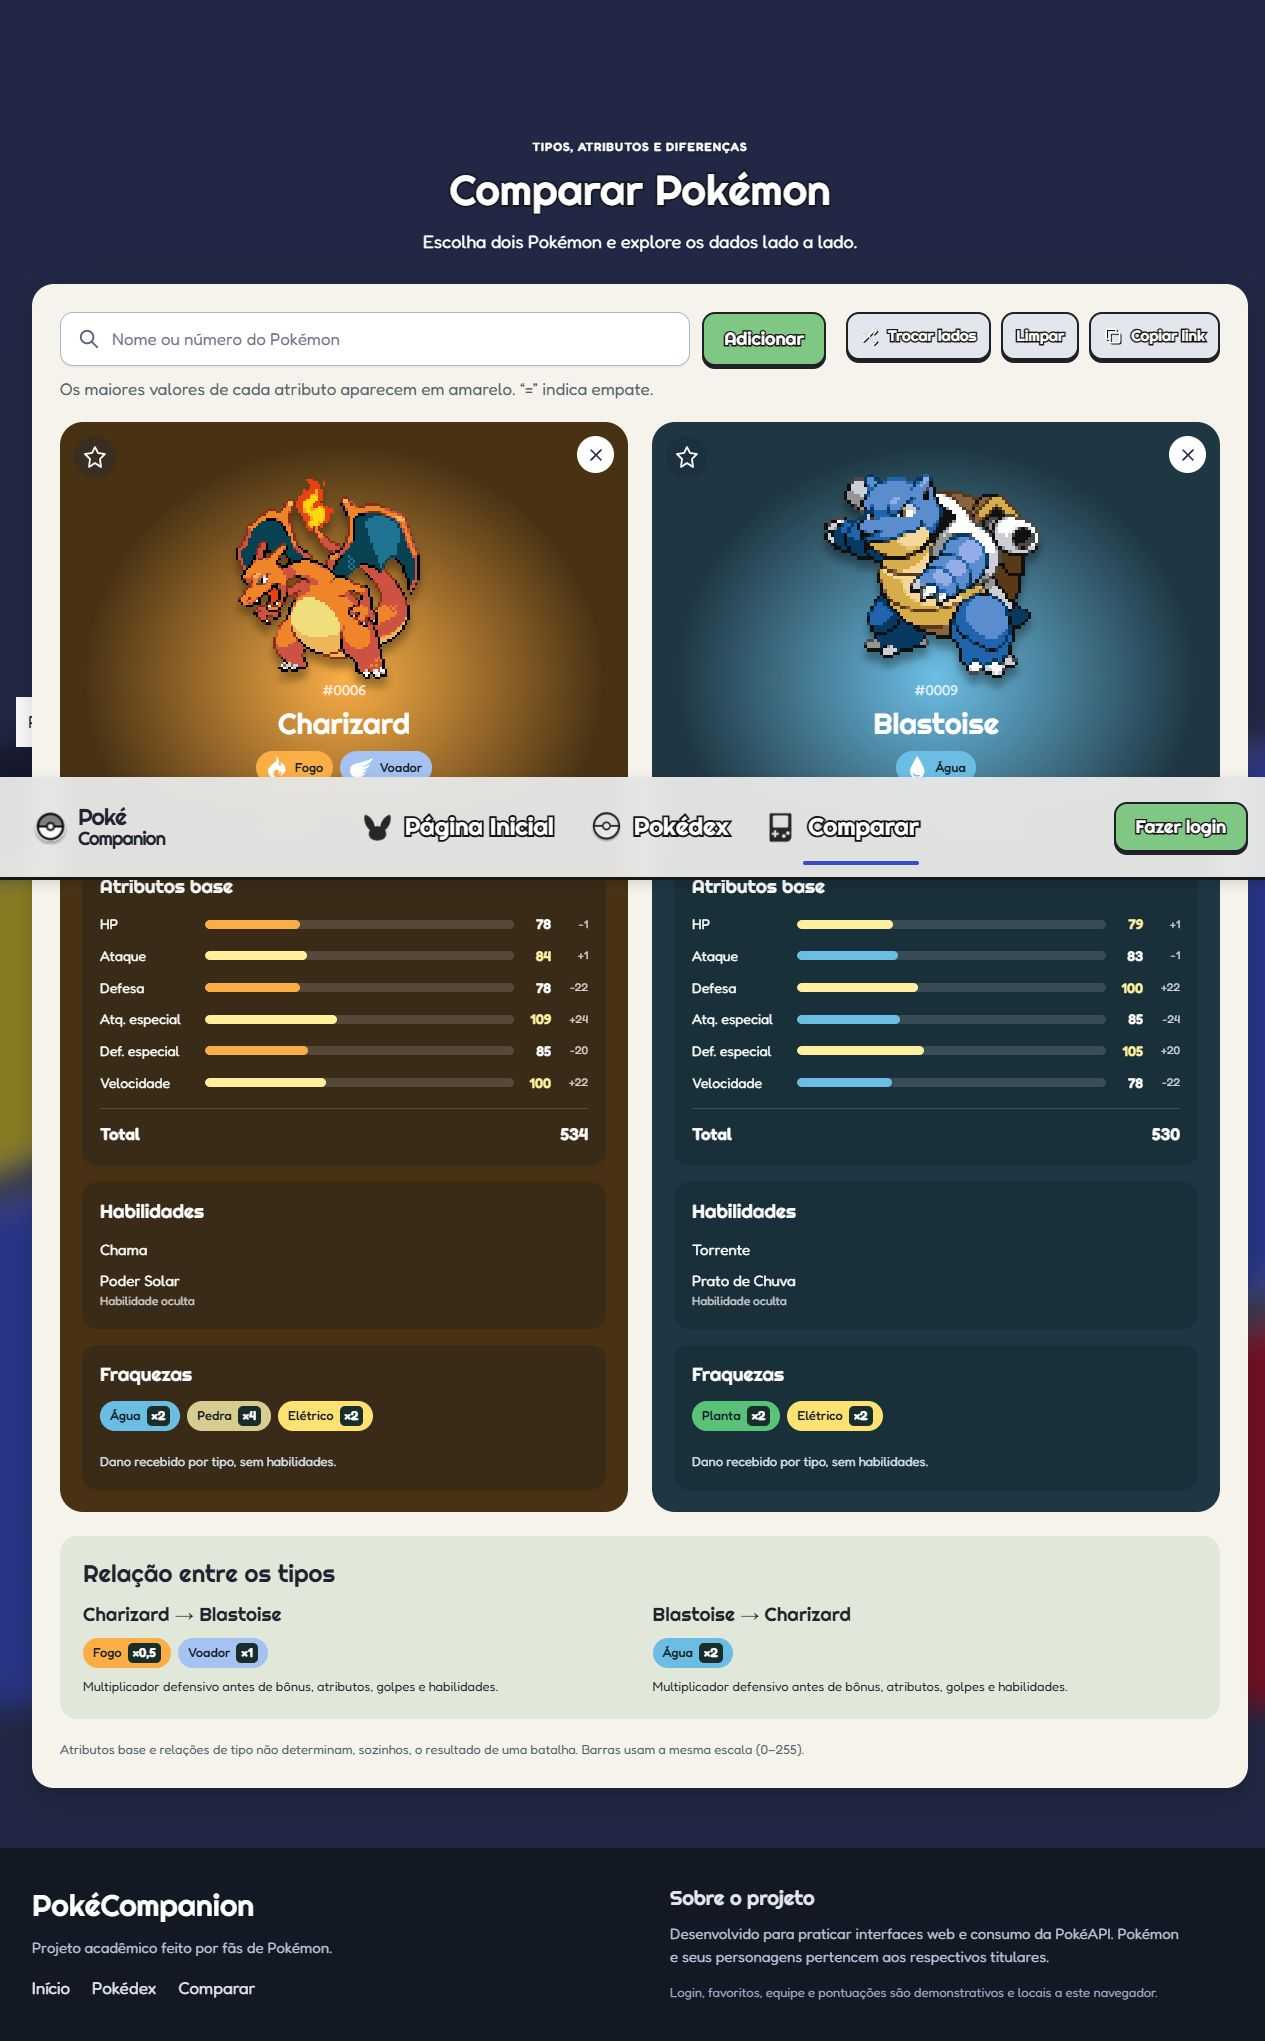
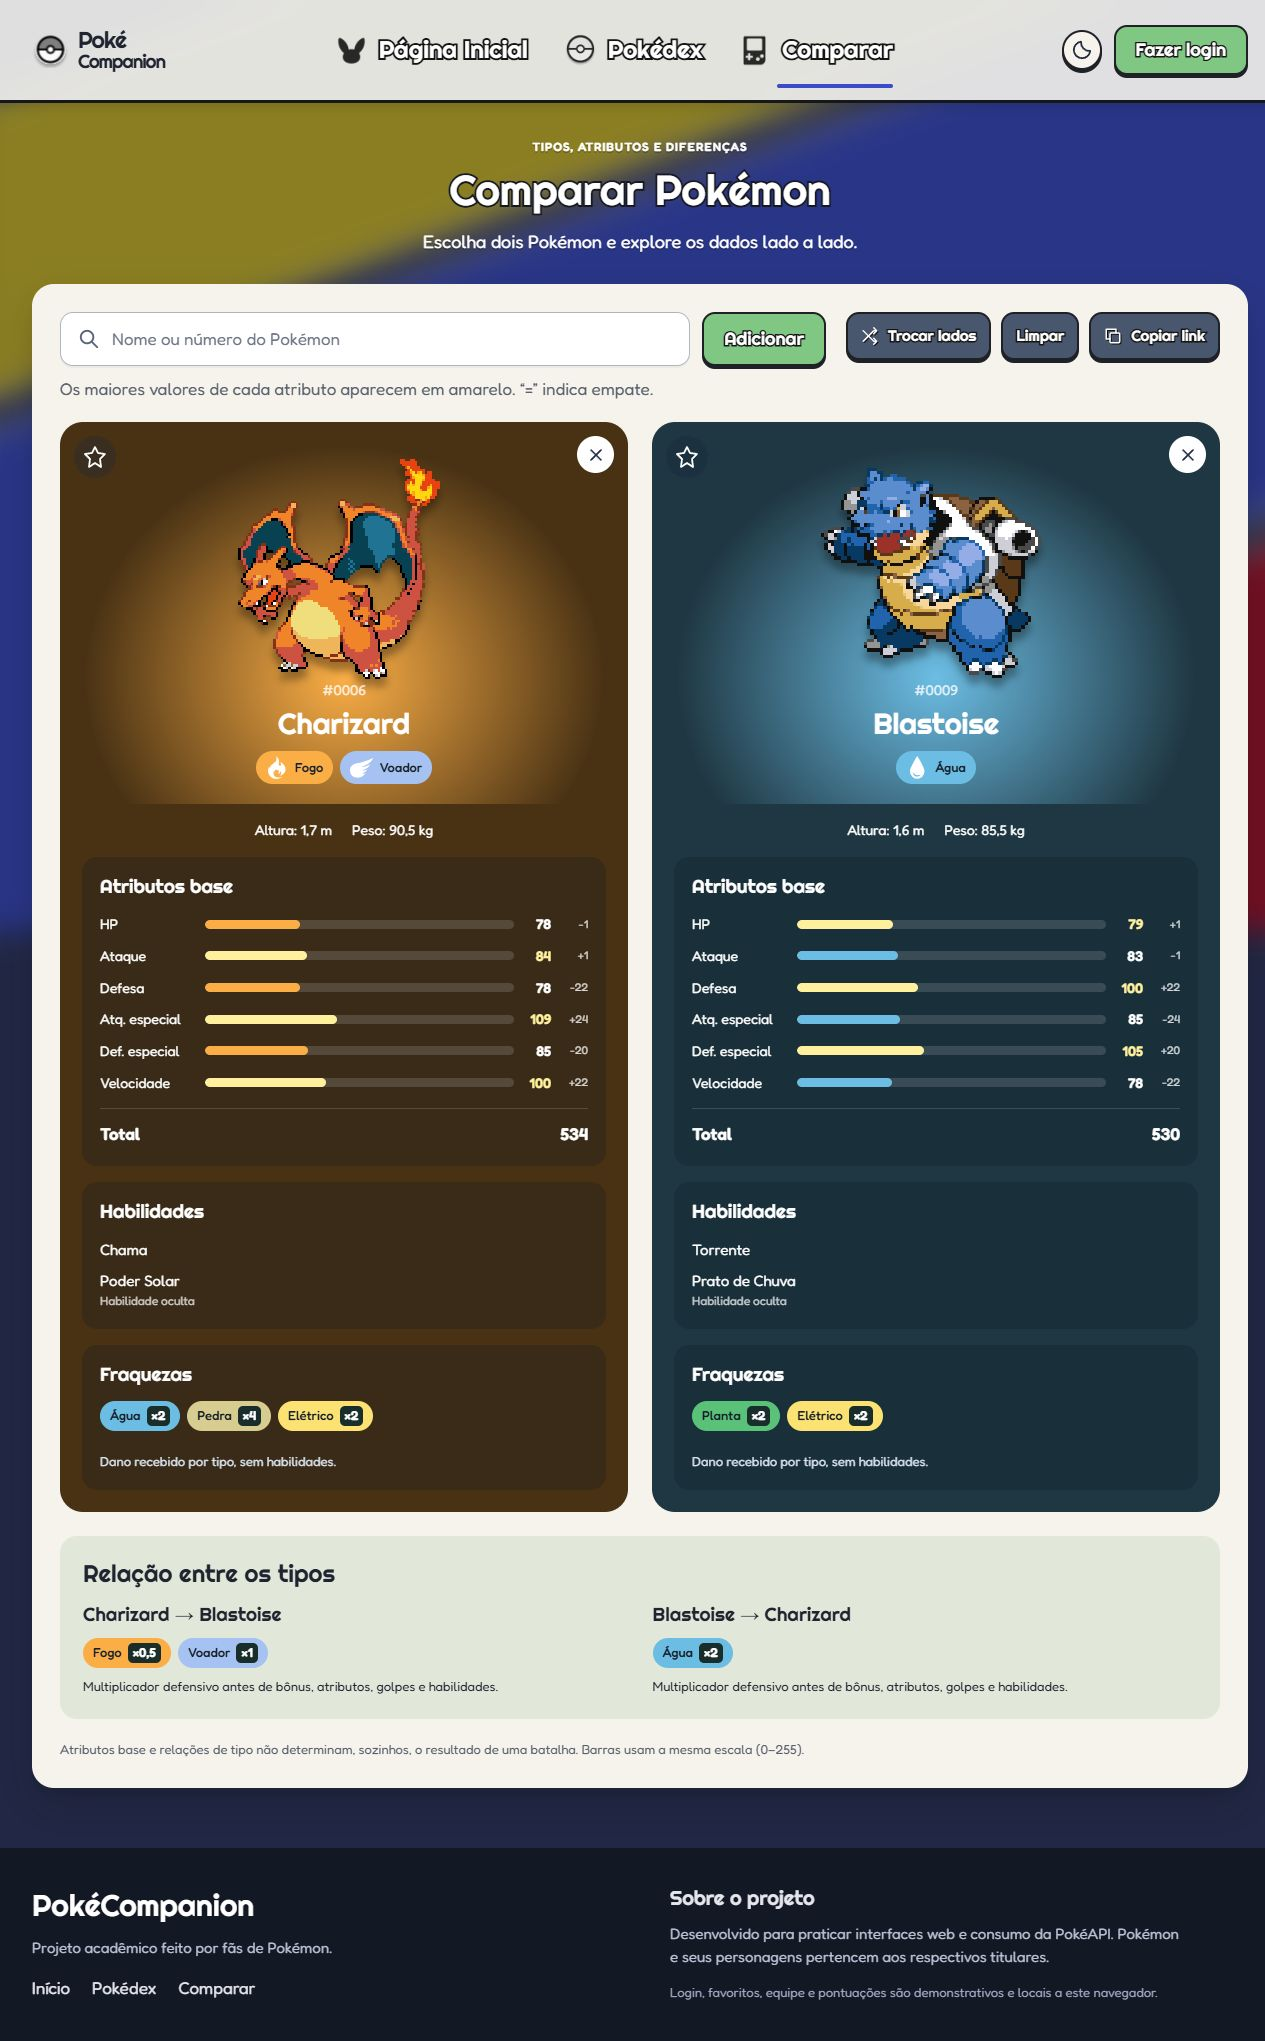
feat: atualizacao readme

Changed region(s): [[0.0, 0.0, 1.0, 0.8643], [0.6474, 0.2161, 0.8324, 0.3395], [0.185, 0.2161, 0.37, 0.3395]]

diff --git a/README.md b/README.md
@@ -4,9 +4,7 @@
 
 # PokéCompanion
 
-**Explore. Favorite. Compare.**
-
-Uma Pokédex para fãs de Pokémon, com a identidade visual de um projeto feito por fãs.
+Pokédex interativa com comparação, favoritos, equipe e quiz.
 
 ![HTML5](https://img.shields.io/badge/HTML5-E34F26?style=flat-square&logo=html5&logoColor=white)
 ![CSS3](https://img.shields.io/badge/CSS3-3B4CCA?style=flat-square&logo=css&logoColor=white)
@@ -24,16 +22,15 @@ Projeto acadêmico em **HTML, CSS e JavaScript**, com dados da PokéAPI. As core
 ## Funcionalidades
 
 - **Tema claro e escuro:** seletor de sol/lua no cabeçalho, com preferência salva neste navegador e aplicada em todas as páginas.
-
 - **Página inicial:** esteira circular em perspectiva com sete Pokémon, controles de navegação e pausa; iniciais de nove regiões, atalhos por tipo e vistos recentemente.
 - **Pokédex:** sugestões por nome ou número a partir do catálogo completo, filtros por tipo, favoritos e lotes de 20 sem cartões duplicados.
 - **Ordenação:** por nome ou número, aplicada ao catálogo filtrado antes da paginação.
 - **Favoritos por conta:** estrela na Pokédex, no comparador e na ficha; exige login demonstrativo. Favoritos antigos sem autoria podem ser importados explicitamente.
 - **Comparador:** dois Pokémon lado a lado, diferenças entre atributos, habilidades, relações de tipos, troca de lados e compartilhamento por URL.
-- **Ficha:** cenário visual por tipo, sombra, opção normal/shiny quando disponível e abas de informações, atributos, evoluções e golpes.
+- **Ficha:** cenário visual por tipo, sprites com pixels nítidos e sombra, opção normal/shiny quando disponível e abas de informações, atributos, evoluções e golpes.
 - **Equipe:** até seis Pokémon, resumo dos tipos e fraquezas compartilhadas; dados salvos localmente.
 - **Quiz:** identificação pela silhueta, quatro alternativas, pontuação e histórico consolidado de acertos no navegador.
-- **Interface:** títulos e botões temáticos, ícones vetoriais, pesquisa por teclado, filtros recolhíveis e fundo desfocado nas páginas internas.
+- **Interface:** títulos e botões temáticos, ícones vetoriais com contraste, pesquisa por teclado, filtros recolhíveis, rolagem interna discreta nas categorias e fundo desfocado nas páginas internas.
 - **Movimento:** a esteira pausa durante interação, foco, aba oculta ou saída da área visível; animações respeitam a preferência por movimento reduzido.
 - **Falhas:** mensagens de erro, nova tentativa e tratamento de imagens ausentes e armazenamento indisponível.
 
@@ -50,6 +47,12 @@ Capturas reais da aplicação em execução, com dados demonstrativos.
 Charizard recebe dano de Pedra **×4**, Água **×2** e Elétrico **×2**. Blastoise recebe dano de Planta **×2** e Elétrico **×2**.
 
 ![Comparador com Charizard e Blastoise](docs/imagens/comparador.jpg)
+
+### Tema escuro
+
+A preferência de tema é compartilhada entre as páginas e mantida ao recarregar.
+
+![Comparador no tema escuro](docs/imagens/tema-escuro.jpg)
 
 <details>
 <summary>Ver detalhes, login e versão móvel</summary>
@@ -102,7 +105,7 @@ PokeCompanion/
 └── README.md
 ```
 
-`css/styleguide.css` define fontes e cores, `css/layout.css` concentra os componentes comuns e os demais CSS tratam cada tela. `js/dados.js` reúne consultas, cache, cores, traduções de apoio e relações de tipos. `js/interface.js` contém busca com sugestões, ícones, mensagens, leitura da sessão e alinhamento dos sprites. `js/favoritos.js` isola os IDs por conta; `js/atividades.js` trata equipe e quiz.
+`css/styleguide.css` define fontes e cores, `css/layout.css` concentra os componentes comuns e os demais CSS tratam cada tela. `css/tema.css` adapta os componentes ao modo escuro e `js/tema.js` restaura a preferência antes de exibir a página. `js/dados.js` reúne consultas, cache, cores, traduções de apoio e relações de tipos. `js/interface.js` contém busca com sugestões, ícones, mensagens, leitura da sessão e alinhamento dos sprites. `js/favoritos.js` isola os IDs por conta; `js/atividades.js` trata equipe e quiz.
 
 ### Testes
 
@@ -143,6 +146,9 @@ O projeto prioriza nomes e textos em português da API, com traduções locais d
 - Favoritos isolados por conta e recuperação de estados vazios.
 - Comparação, troca de lados, link compartilhável e relações entre tipos.
 - Ficha de Blastoise, evoluções de Squirtle, golpes e opção shiny.
+- Sprites da ficha sem suavização, com sombreamento; ícones de tipos com tamanho independente dos Pokémon.
+- Alternância de tema, persistência ao recarregar e contraste dos campos e botões secundários.
+- Rolagem interna das categorias, com acesso ao último tipo e indicador fino.
 - Equipe de seis membros, limite de tamanho e resumo dos tipos.
 - Quiz com revelação da silhueta e bloqueio de respostas repetidas.
 - Testes automatizados de dados e sessão e conferência de responsividade.
